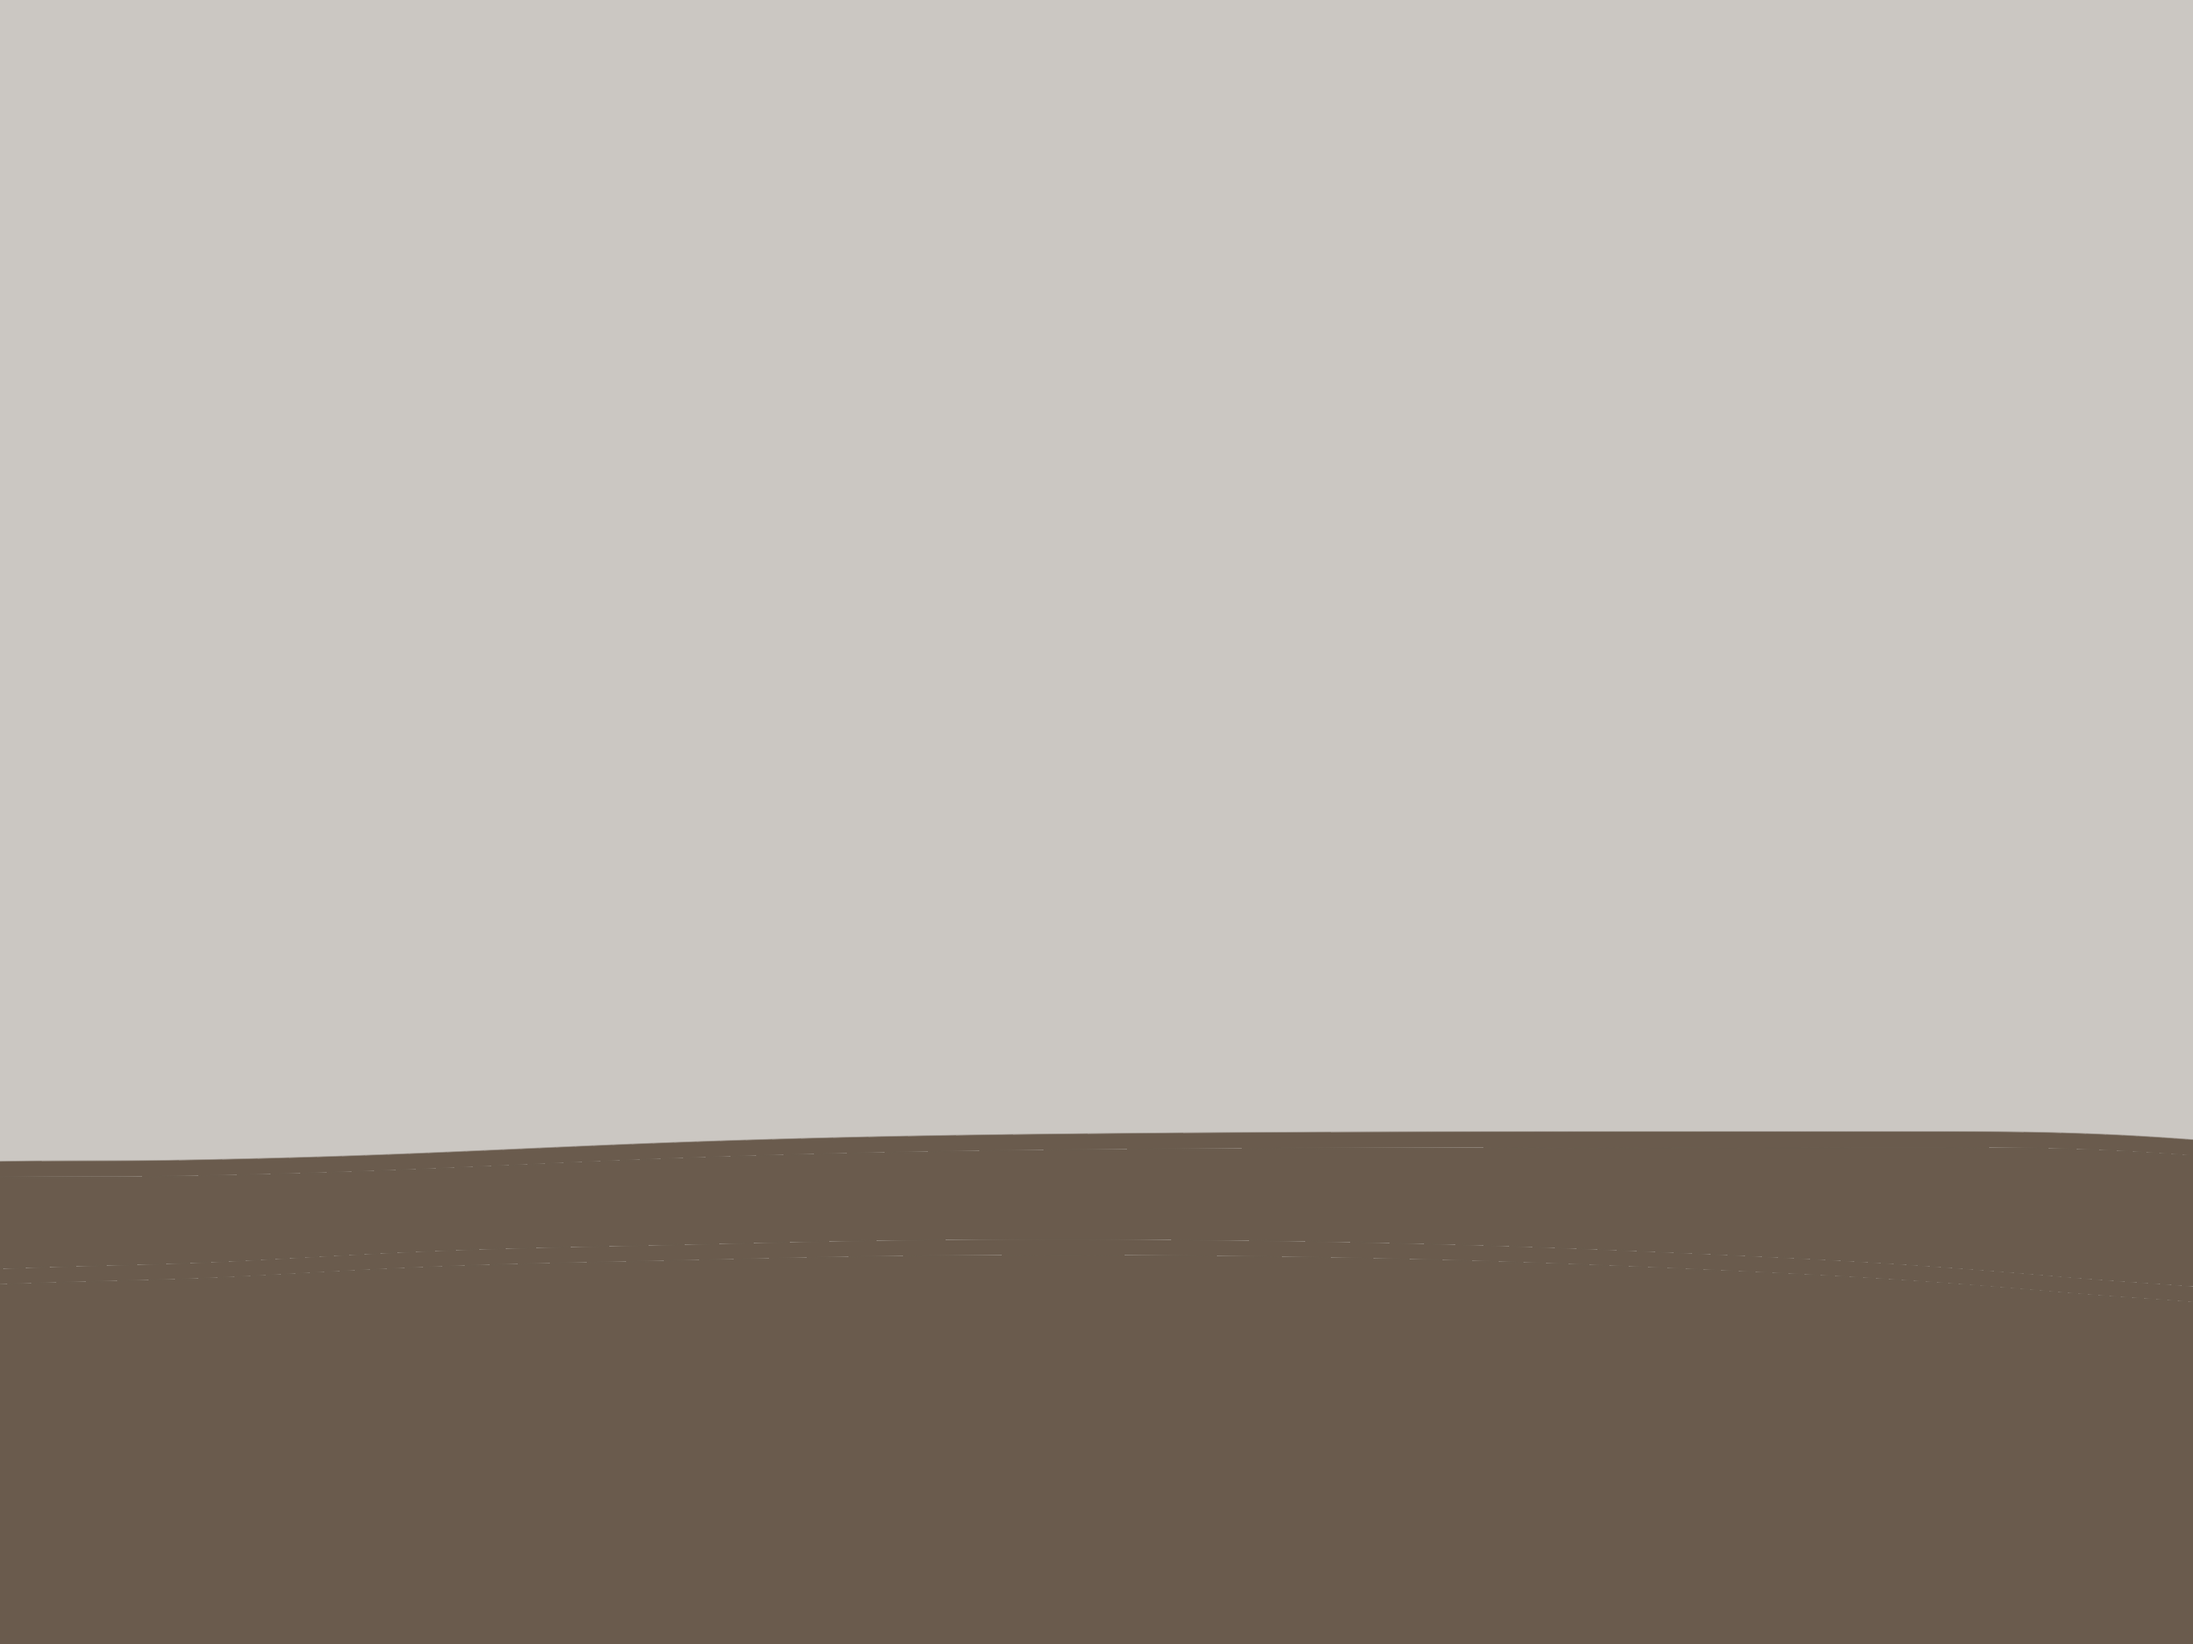
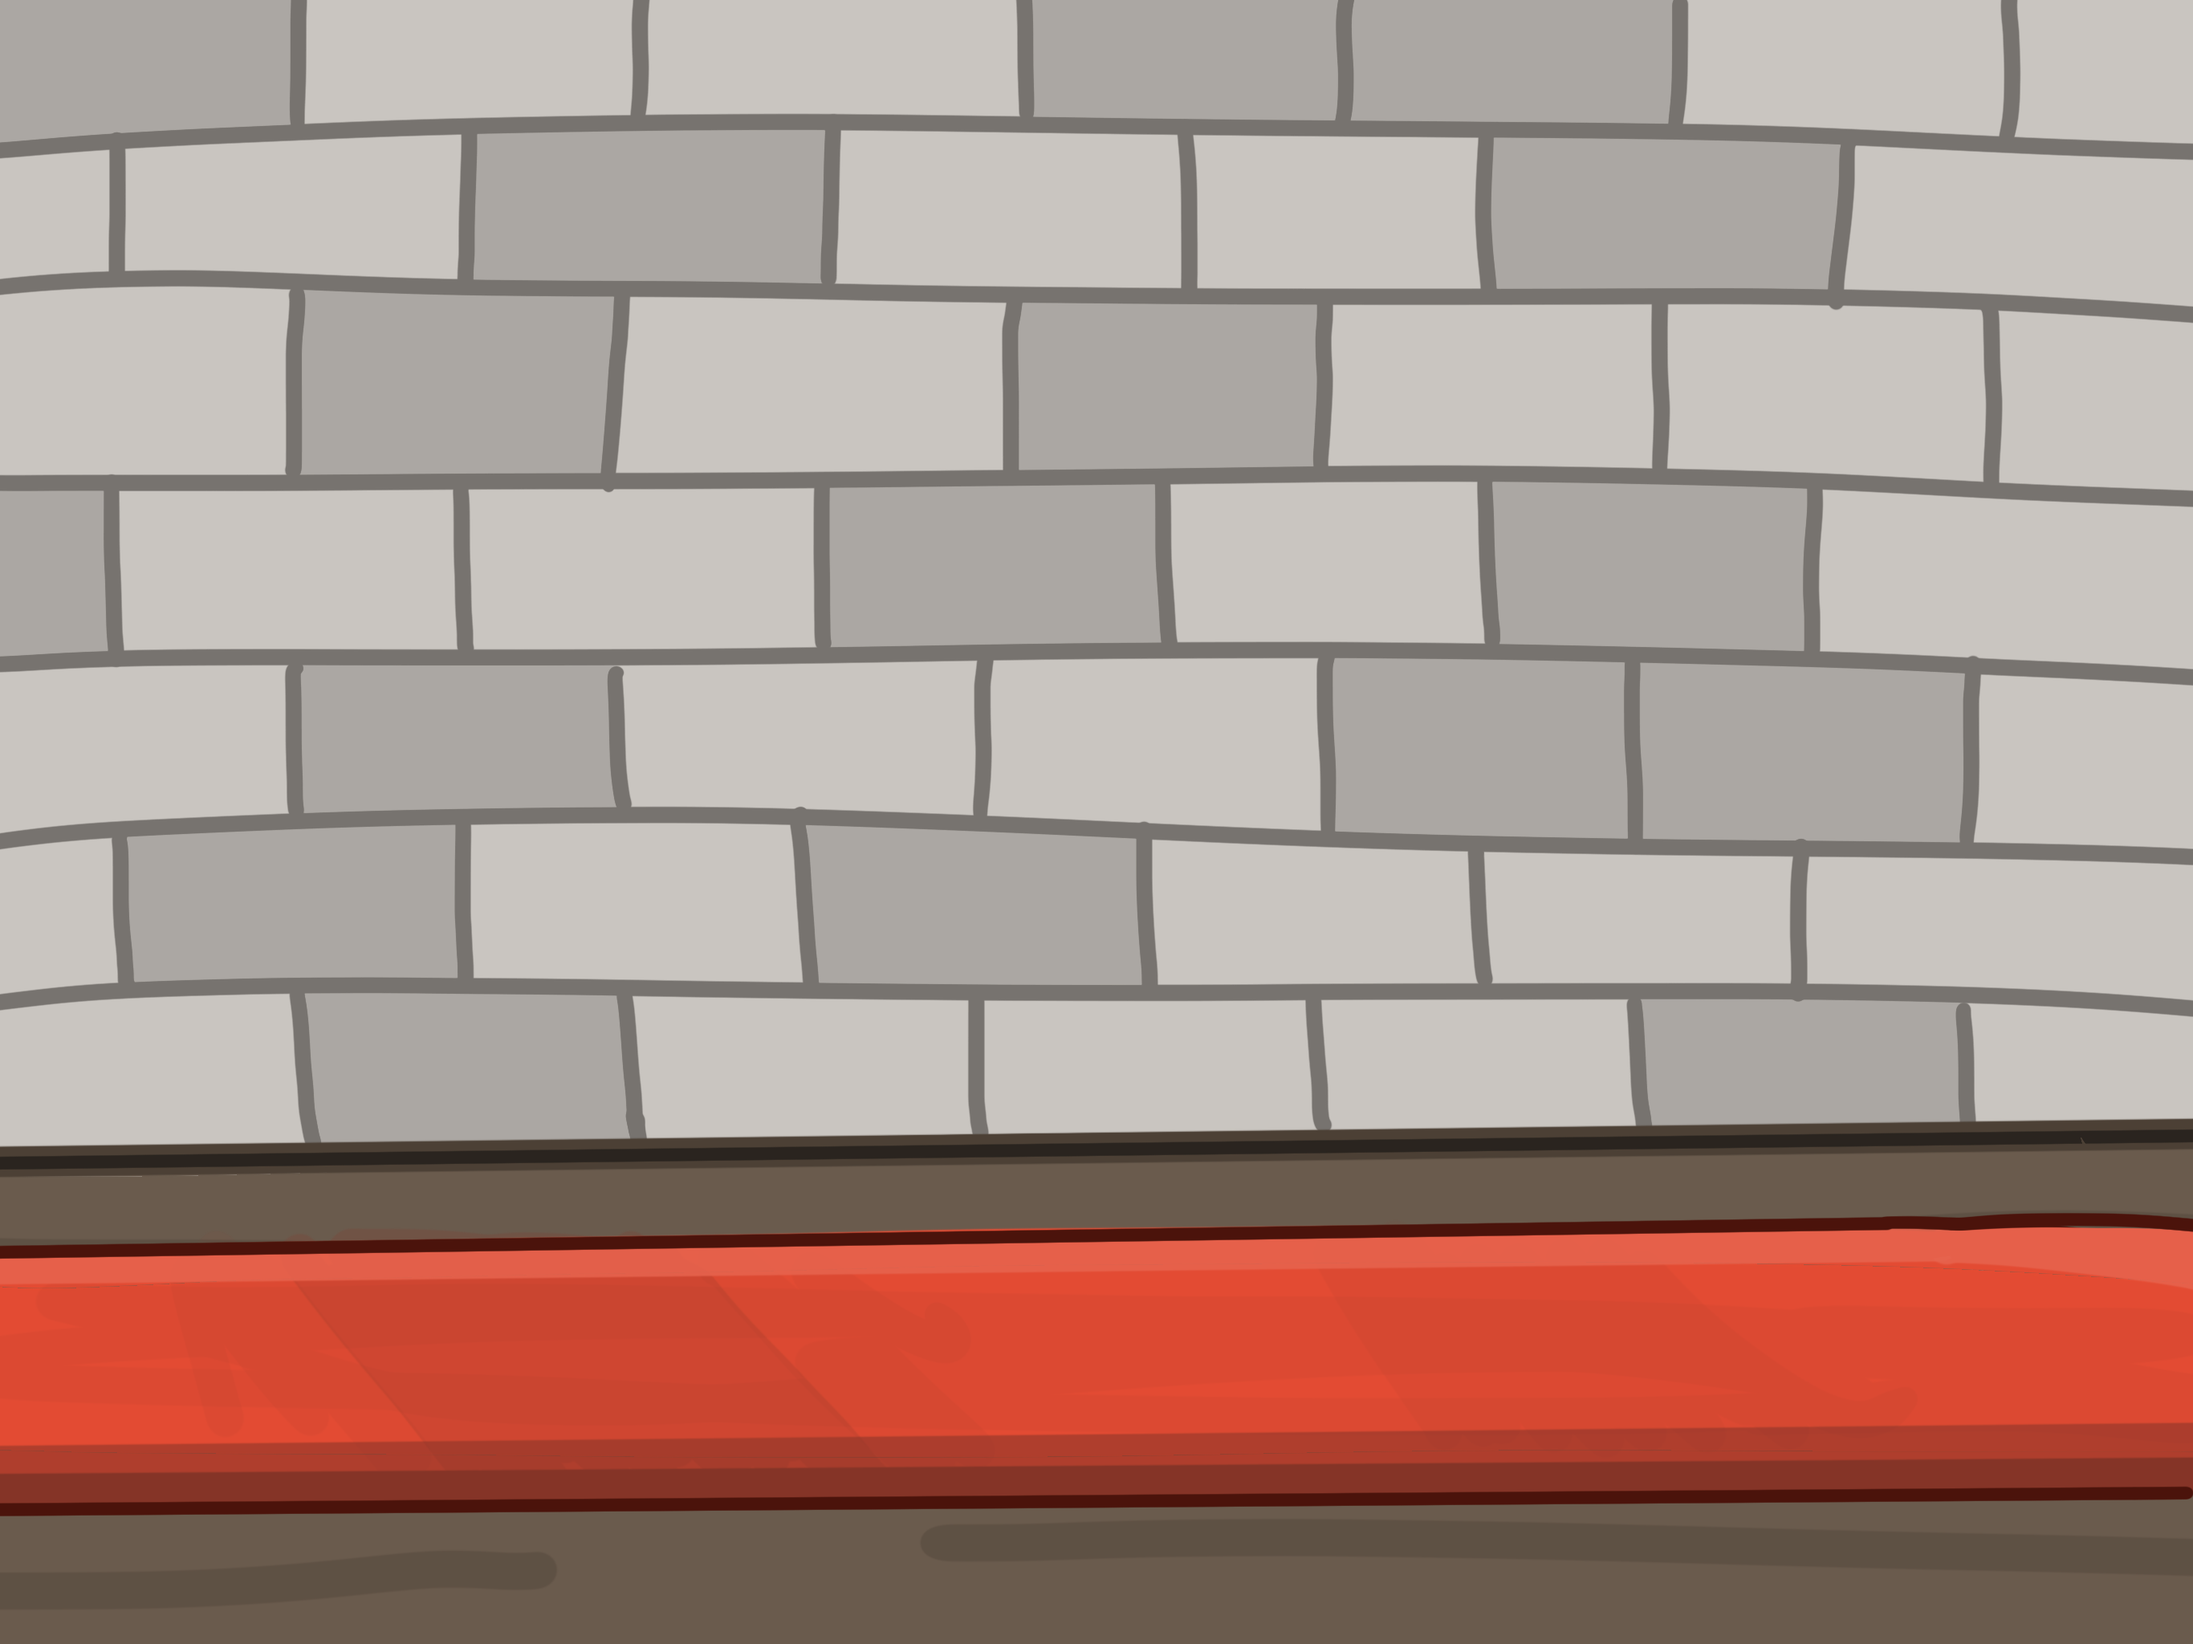
text

diff --git a/src/events.ts b/src/events.ts
@@ -14,22 +14,18 @@ export type GameEvent = {
 export const EVENTS: GameEvent[] = [
   {
     id: 'event-1',
-    text: 'Event 1 text',
+    text: 'Hello your majesty, you’re such an inspiration for all of us! I have but one request, materials for me and my siblings to fix the bridge in our small county of Whishora!',
     choices: [
-      { label: '1', effects: { money: 15, happiness: -10 } },
-      { label: '2', effects: { happiness: 5, money: -5 } },
-      { label: '3', effects: { money: 8, happiness: -2 } },
-      { label: '4', effects: { happiness: 20, money: -20, population: 5 } },
+      { label: 'yes', effects: { money: 15, happiness: -10 } },
+      { label: 'no', effects: { happiness: 20, money: -20, population: 5 } },
     ],
   },
   {
     id: 'event-2',
-    text: 'Event 2 text',
+    text: 'Hey your majesty, me and my friend have a very large conundrum that we need your absolute command to determine. It was a very terrible Saturday when this happened you see, a group of vagrants encountered us in the West Forest, they had these hats! We couldn’t get a good look at their faces, they were attacking us you see, they were large and pointed and jingly. The problem is that afterward we couldn’t determine whether the criminals were of elvish descent or gnome descent, what are your thoughts? This is terribly important to the state of our friendship and the economy of the kingdom!',
     choices: [
       { label: '1', effects: { money: 12, materials: -10 } },
-      { label: '2', effects: { materials: 15 } },
-      { label: '3', effects: { happiness: 15, materials: -15 } },
-      { label: '4', effects: { materials: 5, money: -8, population: 3 } },
+      { label: '2', effects: { happiness: 15, materials: -15 } },
     ],
   },
   {
@@ -37,9 +33,7 @@ export const EVENTS: GameEvent[] = [
     text: 'Event 3 text',
     choices: [
       { label: '1', effects: { money: 15, happiness: -10 } },
-      { label: '2', effects: { happiness: 5, money: -5 } },
-      { label: '3', effects: { money: 8, happiness: -2 } },
-      { label: '4', effects: { happiness: 20, money: -20, population: 5 } },
+      { label: '2', effects: { happiness: 20, money: -20, population: 5 } },
     ],
   },
 ]

diff --git a/src/index.css b/src/index.css
@@ -45,7 +45,7 @@ body {
   grid-template-columns: repeat(4, 1fr);
   gap: 1rem;
   width: 100%;
-  max-width: 56rem;
+  max-width: 72rem;
   margin: 0 auto;
   flex: none;
 }
@@ -54,8 +54,8 @@ body {
   display: flex;
   align-items: baseline;
   gap: 0.4rem;
-  margin-bottom: 0.35rem;
-  font-size: 0.8rem;
+  margin-bottom: 0.5rem;
+  font-size: 1rem;
   color: #000000;
 }
 
@@ -65,13 +65,8 @@ body {
   text-overflow: ellipsis;
 }
 
-.meter-value {
-  margin-left: auto;
-  font-variant-numeric: tabular-nums;
-}
-
 .meter-track {
-  height: 0.5rem;
+  height: 1.1rem;
   background: var(--track);
 }
 
@@ -97,8 +92,8 @@ body {
   position: absolute;
   top: 6%;
   left: calc(6% + 1.462 * var(--throne-w));
-  width: calc(0.6 * var(--throne-w));
-  height: 13rem;
+  width: min(calc(0.95 * var(--throne-w)), calc(92% - 1.462 * var(--throne-w)));
+  min-height: 9rem;
   padding: 1rem;
   background: #ffffff;
   color: #1a1a1a;
@@ -107,19 +102,20 @@ body {
 .choices {
   position: absolute;
   top: 94%;
-  left: 146.2%;
-  width: 60%;
+  left: 139.2%;
+  width: 74%;
   display: grid;
-  grid-template-columns: 1fr 1fr;
-  gap: 0.5rem;
+  grid-template-columns: 1fr;
+  gap: 0.6rem;
 }
 
 .choice {
-  padding: 0.7rem 1rem;
+  padding: 1.1rem 1.25rem;
   border: none;
   background: #ffffff;
   color: #1a1a1a;
   font: inherit;
+  font-size: 1.05rem;
   text-align: left;
   cursor: pointer;
 }

diff --git a/src/store.ts b/src/store.ts
@@ -8,10 +8,10 @@ export const MIN = 0
 export const MAX = 100
 
 const INITIAL: Record<Resource, number> = {
-  population: 20,
-  money: 50,
-  happiness: 50,
-  materials: 50,
+  population: 75,
+  money: 75,
+  happiness: 75,
+  materials: 75,
 }
 
 
@@ -65,8 +65,6 @@ export const useGame = create<GameState>((set, get) => ({
   reset: () => set({ resources: { ...INITIAL }, eventIndex: 0 }),
 }))
 
-// Dev convenience: poke the meters from the browser console.
-//   game.getState().adjust('money', -20)
 if (import.meta.env.DEV) {
   ;(globalThis as unknown as { game: typeof useGame }).game = useGame
 }

diff --git a/src/components/Meters.tsx b/src/components/Meters.tsx
@@ -20,7 +20,6 @@ export function Meters() {
           <div className="meter" key={resource} data-resource={resource}>
             <div className="meter-head">
               <span className="meter-label">{label}</span>
-              <span className="meter-value">{value}</span>
             </div>
             <div
               className="meter-track"
